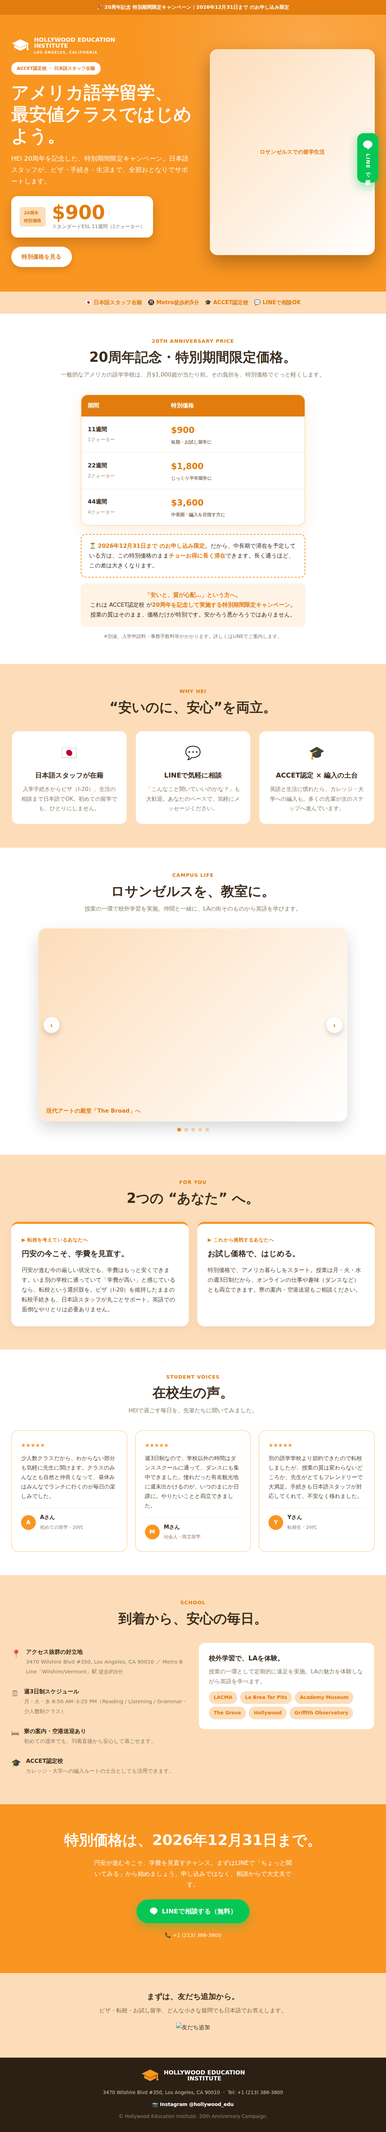
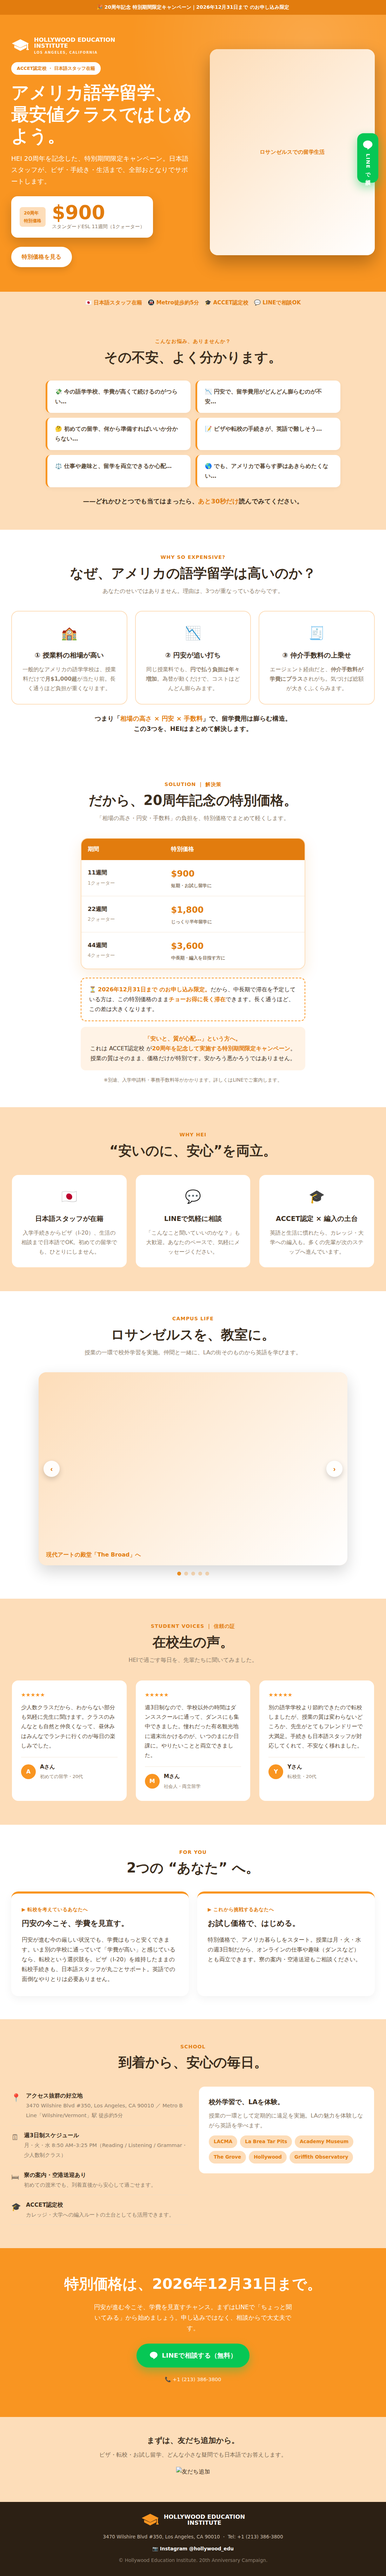
Restructure landing page to the 6-step psychological USP order
Add the two missing top-of-funnel sections and reorder so the page
builds conviction before the CTA:
1) Empathy — "こんなお悩み、ありませんか？" pain checklist
2) Problem structuring — why US language study is expensive (相場/円安/手数料)
3) Solution — reframe the special-price section as the answer
4) USP (Why HEI) → 5) Trust proof (student voices) → personas
6) CTA. Trust proof now sits just before the closing CTA.

Claude-Session: https://claude.ai/code/session_01Nv4bbuv6LW1WDD8PVDqPwC

diff --git a/tasks/output/landing-page/index.html b/tasks/output/landing-page/index.html
@@ -126,6 +126,12 @@
   .dots button{width:11px;height:11px;border-radius:50%;border:none;background:var(--peach);cursor:pointer;padding:0}
   .dots button.active{background:var(--orange)}
 
+  /* pains (empathy) */
+  .pains{display:grid;grid-template-columns:1fr 1fr;gap:14px;max-width:840px;margin:0 auto}
+  .pain{background:#fff;border-radius:14px;padding:18px 22px;font-weight:700;color:#5a4a38;border-left:5px solid var(--orange);box-shadow:0 4px 14px rgba(0,0,0,.04)}
+  .lead{text-align:center;margin-top:26px;font-weight:800;font-size:1.12rem;line-height:1.6}
+  .lead .hl{color:var(--orange-deep)}
+
   /* personas */
   .personas{display:grid;grid-template-columns:1fr 1fr;gap:24px}
   .persona{background:#fff;border-radius:20px;padding:34px 30px;border-top:6px solid var(--orange);box-shadow:0 8px 26px rgba(0,0,0,.05)}
@@ -249,13 +255,49 @@
   </div>
 </div>
 
-<!-- PRICE -->
+<!-- (1) EMPATHY -->
+<section class="peachbg" id="empathy">
+  <div class="wrap">
+    <div class="section-head">
+      <span class="kicker">こんなお悩み、ありませんか？</span>
+      <h2>その不安、よく分かります。</h2>
+    </div>
+    <div class="pains">
+      <div class="pain">💸 今の語学学校、学費が高くて続けるのがつらい…</div>
+      <div class="pain">📉 円安で、留学費用がどんどん膨らむのが不安…</div>
+      <div class="pain">🤔 初めての留学、何から準備すればいいか分からない…</div>
+      <div class="pain">📝 ビザや転校の手続きが、英語で難しそう…</div>
+      <div class="pain">⚖ 仕事や趣味と、留学を両立できるか心配…</div>
+      <div class="pain">🌎 でも、アメリカで暮らす夢はあきらめたくない…</div>
+    </div>
+    <p class="lead">——どれかひとつでも当てはまったら、<span class="hl">あと30秒だけ</span>読んでみてください。</p>
+  </div>
+</section>
+
+<!-- (2) PROBLEM STRUCTURE -->
+<section id="problem">
+  <div class="wrap">
+    <div class="section-head">
+      <span class="kicker">WHY SO EXPENSIVE?</span>
+      <h2>なぜ、アメリカの語学留学は高いのか？</h2>
+      <p>あなたのせいではありません。理由は、3つが重なっているからです。</p>
+    </div>
+    <div class="cards">
+      <div class="card"><div class="ico">🏫</div><h3>① 授業料の相場が高い</h3><p>一般的なアメリカの語学学校は、授業料だけで<b>月$1,000超</b>が当たり前。長く通うほど負担が重くなります。</p></div>
+      <div class="card"><div class="ico">📉</div><h3>② 円安が追い打ち</h3><p>同じ授業料でも、<b>円で払う負担は年々増加</b>。為替が動くだけで、コストはどんどん膨らみます。</p></div>
+      <div class="card"><div class="ico">🧾</div><h3>③ 仲介手数料の上乗せ</h3><p>エージェント経由だと、<b>仲介手数料が学費にプラス</b>されがち。気づけば総額が大きくふくらみます。</p></div>
+    </div>
+    <p class="lead">つまり「<span class="hl">相場の高さ × 円安 × 手数料</span>」で、留学費用は膨らむ構造。<br>この3つを、HEIはまとめて解決します。</p>
+  </div>
+</section>
+
+<!-- (3) SOLUTION / PRICE -->
 <section id="price">
   <div class="wrap">
     <div class="section-head">
-      <span class="kicker">20TH ANNIVERSARY PRICE</span>
-      <h2>20周年記念・特別期間限定価格。</h2>
-      <p>一般的なアメリカの語学学校は、月$1,000超が当たり前。その負担を、特別価格でぐっと軽くします。</p>
+      <span class="kicker">SOLUTION ｜ 解決策</span>
+      <h2>だから、20周年記念の特別価格。</h2>
+      <p>「相場の高さ・円安・手数料」の負担を、特別価格でまとめて軽くします。</p>
     </div>
     <div class="ptable">
       <table>
@@ -311,33 +353,11 @@
   </div>
 </section>
 
-<!-- PERSONAS -->
+<!-- (5) TRUST PROOF / STUDENT VOICES -->
 <section class="peachbg">
   <div class="wrap">
     <div class="section-head">
-      <span class="kicker">FOR YOU</span>
-      <h2>2つの “あなた” へ。</h2>
-    </div>
-    <div class="personas">
-      <div class="persona">
-        <div class="tag">▶ 転校を考えているあなたへ</div>
-        <h3>円安の今こそ、学費を見直す。</h3>
-        <p>円安が進む今の厳しい状況でも、学費はもっと安くできます。いま別の学校に通っていて「学費が高い」と感じているなら、転校という選択肢を。ビザ（I-20）を維持したままの転校手続きも、日本語スタッフが丸ごとサポート。英語での面倒なやりとりは必要ありません。</p>
-      </div>
-      <div class="persona">
-        <div class="tag">▶ これから挑戦するあなたへ</div>
-        <h3>お試し価格で、はじめる。</h3>
-        <p>特別価格で、アメリカ暮らしをスタート。授業は月・火・水の週3日制だから、オンラインの仕事や趣味（ダンスなど）とも両立できます。寮の案内・空港送迎もご相談ください。</p>
-      </div>
-    </div>
-  </div>
-</section>
-
-<!-- STUDENT VOICES -->
-<section>
-  <div class="wrap">
-    <div class="section-head">
-      <span class="kicker">STUDENT VOICES</span>
+      <span class="kicker">STUDENT VOICES ｜ 信頼の証</span>
       <h2>在校生の声。</h2>
       <p>HEIで過ごす毎日を、先輩たちに聞いてみました。</p>
     </div>
@@ -356,6 +376,28 @@
         <div class="stars">★★★★★</div>
         <p>別の語学学校より節約できたので転校しましたが、授業の質は変わらないどころか、先生がとてもフレンドリーで大満足。手続きも日本語スタッフが対応してくれて、不安なく移れました。</p>
         <div class="who"><div class="ava">Y</div><div><b>Yさん</b><span>転校生・20代</span></div></div>
+      </div>
+    </div>
+  </div>
+</section>
+
+<!-- (5b) FOR YOU / PERSONAS -->
+<section>
+  <div class="wrap">
+    <div class="section-head">
+      <span class="kicker">FOR YOU</span>
+      <h2>2つの “あなた” へ。</h2>
+    </div>
+    <div class="personas">
+      <div class="persona">
+        <div class="tag">▶ 転校を考えているあなたへ</div>
+        <h3>円安の今こそ、学費を見直す。</h3>
+        <p>円安が進む今の厳しい状況でも、学費はもっと安くできます。いま別の学校に通っていて「学費が高い」と感じているなら、転校という選択肢を。ビザ（I-20）を維持したままの転校手続きも、日本語スタッフが丸ごとサポート。英語での面倒なやりとりは必要ありません。</p>
+      </div>
+      <div class="persona">
+        <div class="tag">▶ これから挑戦するあなたへ</div>
+        <h3>お試し価格で、はじめる。</h3>
+        <p>特別価格で、アメリカ暮らしをスタート。授業は月・火・水の週3日制だから、オンラインの仕事や趣味（ダンスなど）とも両立できます。寮の案内・空港送迎もご相談ください。</p>
       </div>
     </div>
   </div>
